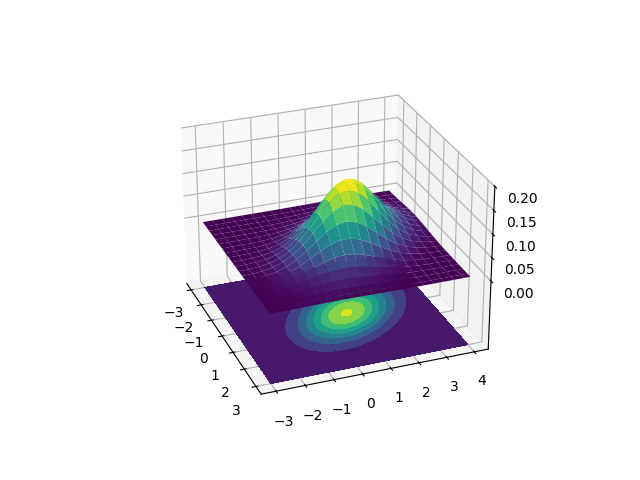
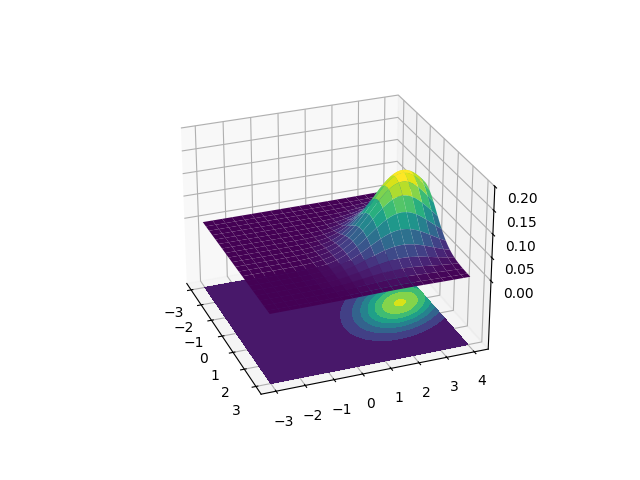
Just playing with numpy

Changed region(s): [[0.375, 0.3438, 0.7188, 0.75]]

diff --git a/ml_project/proj.py b/ml_project/proj.py
@@ -1,8 +1,31 @@
+import random
 import numpy as np
 import matplotlib.pyplot as plt
 from matplotlib import cm
 from mpl_toolkits.mplot3d import Axes3D
 from scipy.stats import multivariate_normal
+
+
+w = [-1.2, 0.9] # Weights w1, w2
+x = np.linspace(-1, 1, 201)
+
+pairs = np.concatenate([w, x])
+
+z = np.array([1, 2, 3, 4])
+
+z = w[0] + z**w[1]
+
+z = np.random.normal(loc=z, scale=1.0, size=None)
+##z = z ** 2
+product = np.prod(z)
+
+print(product)
+
+
+
+
+
+
 
 # Our 2-dimensional distribution will be over variables X and Y
 N = 60
@@ -11,7 +34,7 @@ Y = np.linspace(-3, 4, N)
 X, Y = np.meshgrid(X, Y)
 
 # Mean vector and covariance matrix
-mu = np.array([0., 1.])
+mu = np.array([0., 3.])
 Sigma = np.array([[ 1. , -0.5], [-0.5,  1.5]])
 
 # Pack X and Y into a single 3-dimensional array
